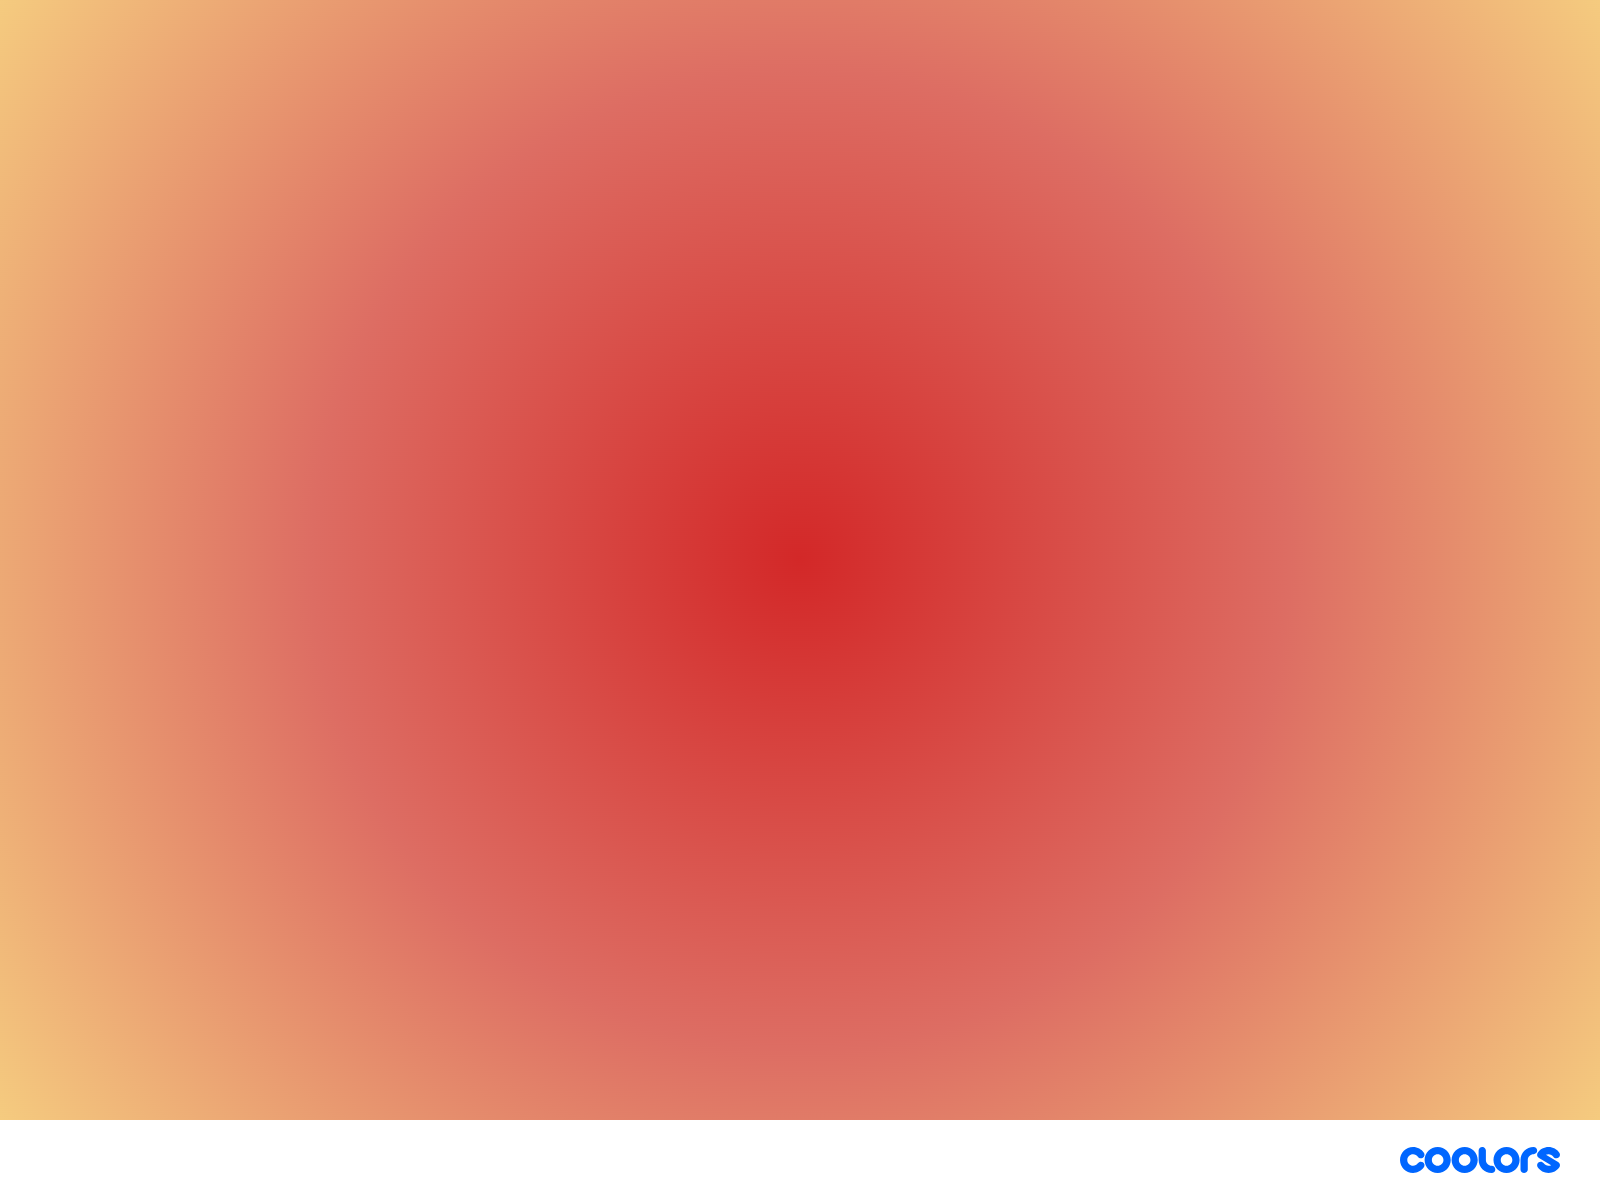
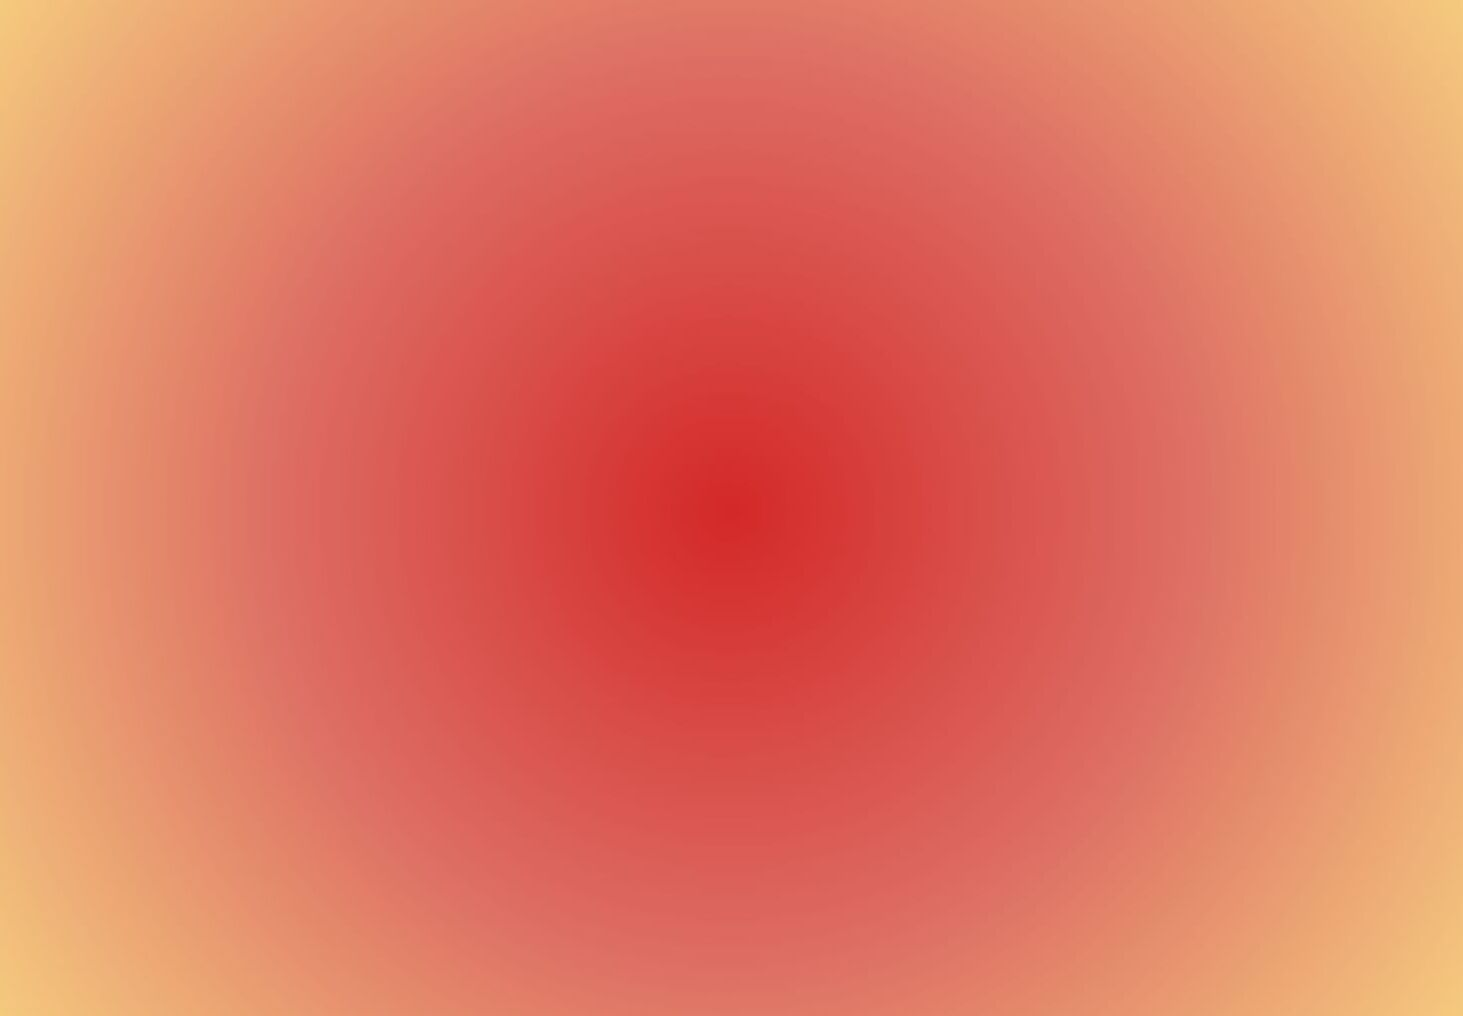
Added a easter egg!

Changed region(s): [[0.0, 0.9154, 1.0, 1.0]]

diff --git a/src/Hero.js b/src/Hero.js
@@ -1,10 +1,11 @@
-import React, { useState, useCallback } from 'react';
+// Hero.js
+import React, { useState, useCallback, useEffect } from 'react';
 import Typewriter from 'typewriter-effect';
 import { motion } from 'framer-motion';
 import zainImage from './zain.jpeg';
 import './hero.css';
 
-function Hero({ onBackgroundChange }) {
+function Hero() {
   const [clickCount, setClickCount] = useState(0);
   const [typewriterText, setTypewriterText] = useState('Zain Khatri');
   const [isSpinning, setIsSpinning] = useState(false);
@@ -17,13 +18,21 @@ function Hero({ onBackgroundChange }) {
     if (newClickCount % 10 === 5) {
       setIsSpinning(true); // Start spinning
       setTypewriterText('Egomaniac');
-      onBackgroundChange('egogradient.jpeg');
     } else if (newClickCount % 10 === 0) {
       setIsSpinning(false); // Stop spinning after a complete spin
       setTypewriterText('Zain Khatri');
-      onBackgroundChange('gradient.jpeg');
     }
-  }, [clickCount, onBackgroundChange]);
+  }, [clickCount]);
+
+  // Add useEffect to monitor clickCount and change background
+  useEffect(() => {
+    const isEgoPhase = clickCount % 10 >= 5 && clickCount % 10 < 10;
+    if (isEgoPhase) {
+      document.body.classList.add('ego-mode');
+    } else {
+      document.body.classList.remove('ego-mode');
+    }
+  }, [clickCount]);
 
   return (
     <header className="hero-section">

diff --git a/src/app.css b/src/app.css
@@ -91,3 +91,7 @@ button, a {
 .Albums {
   margin-top: 40px; /* Adjust this value as needed */
 }
+
+body.ego-mode {
+  background-image: url('/egogradient.jpeg');
+}
